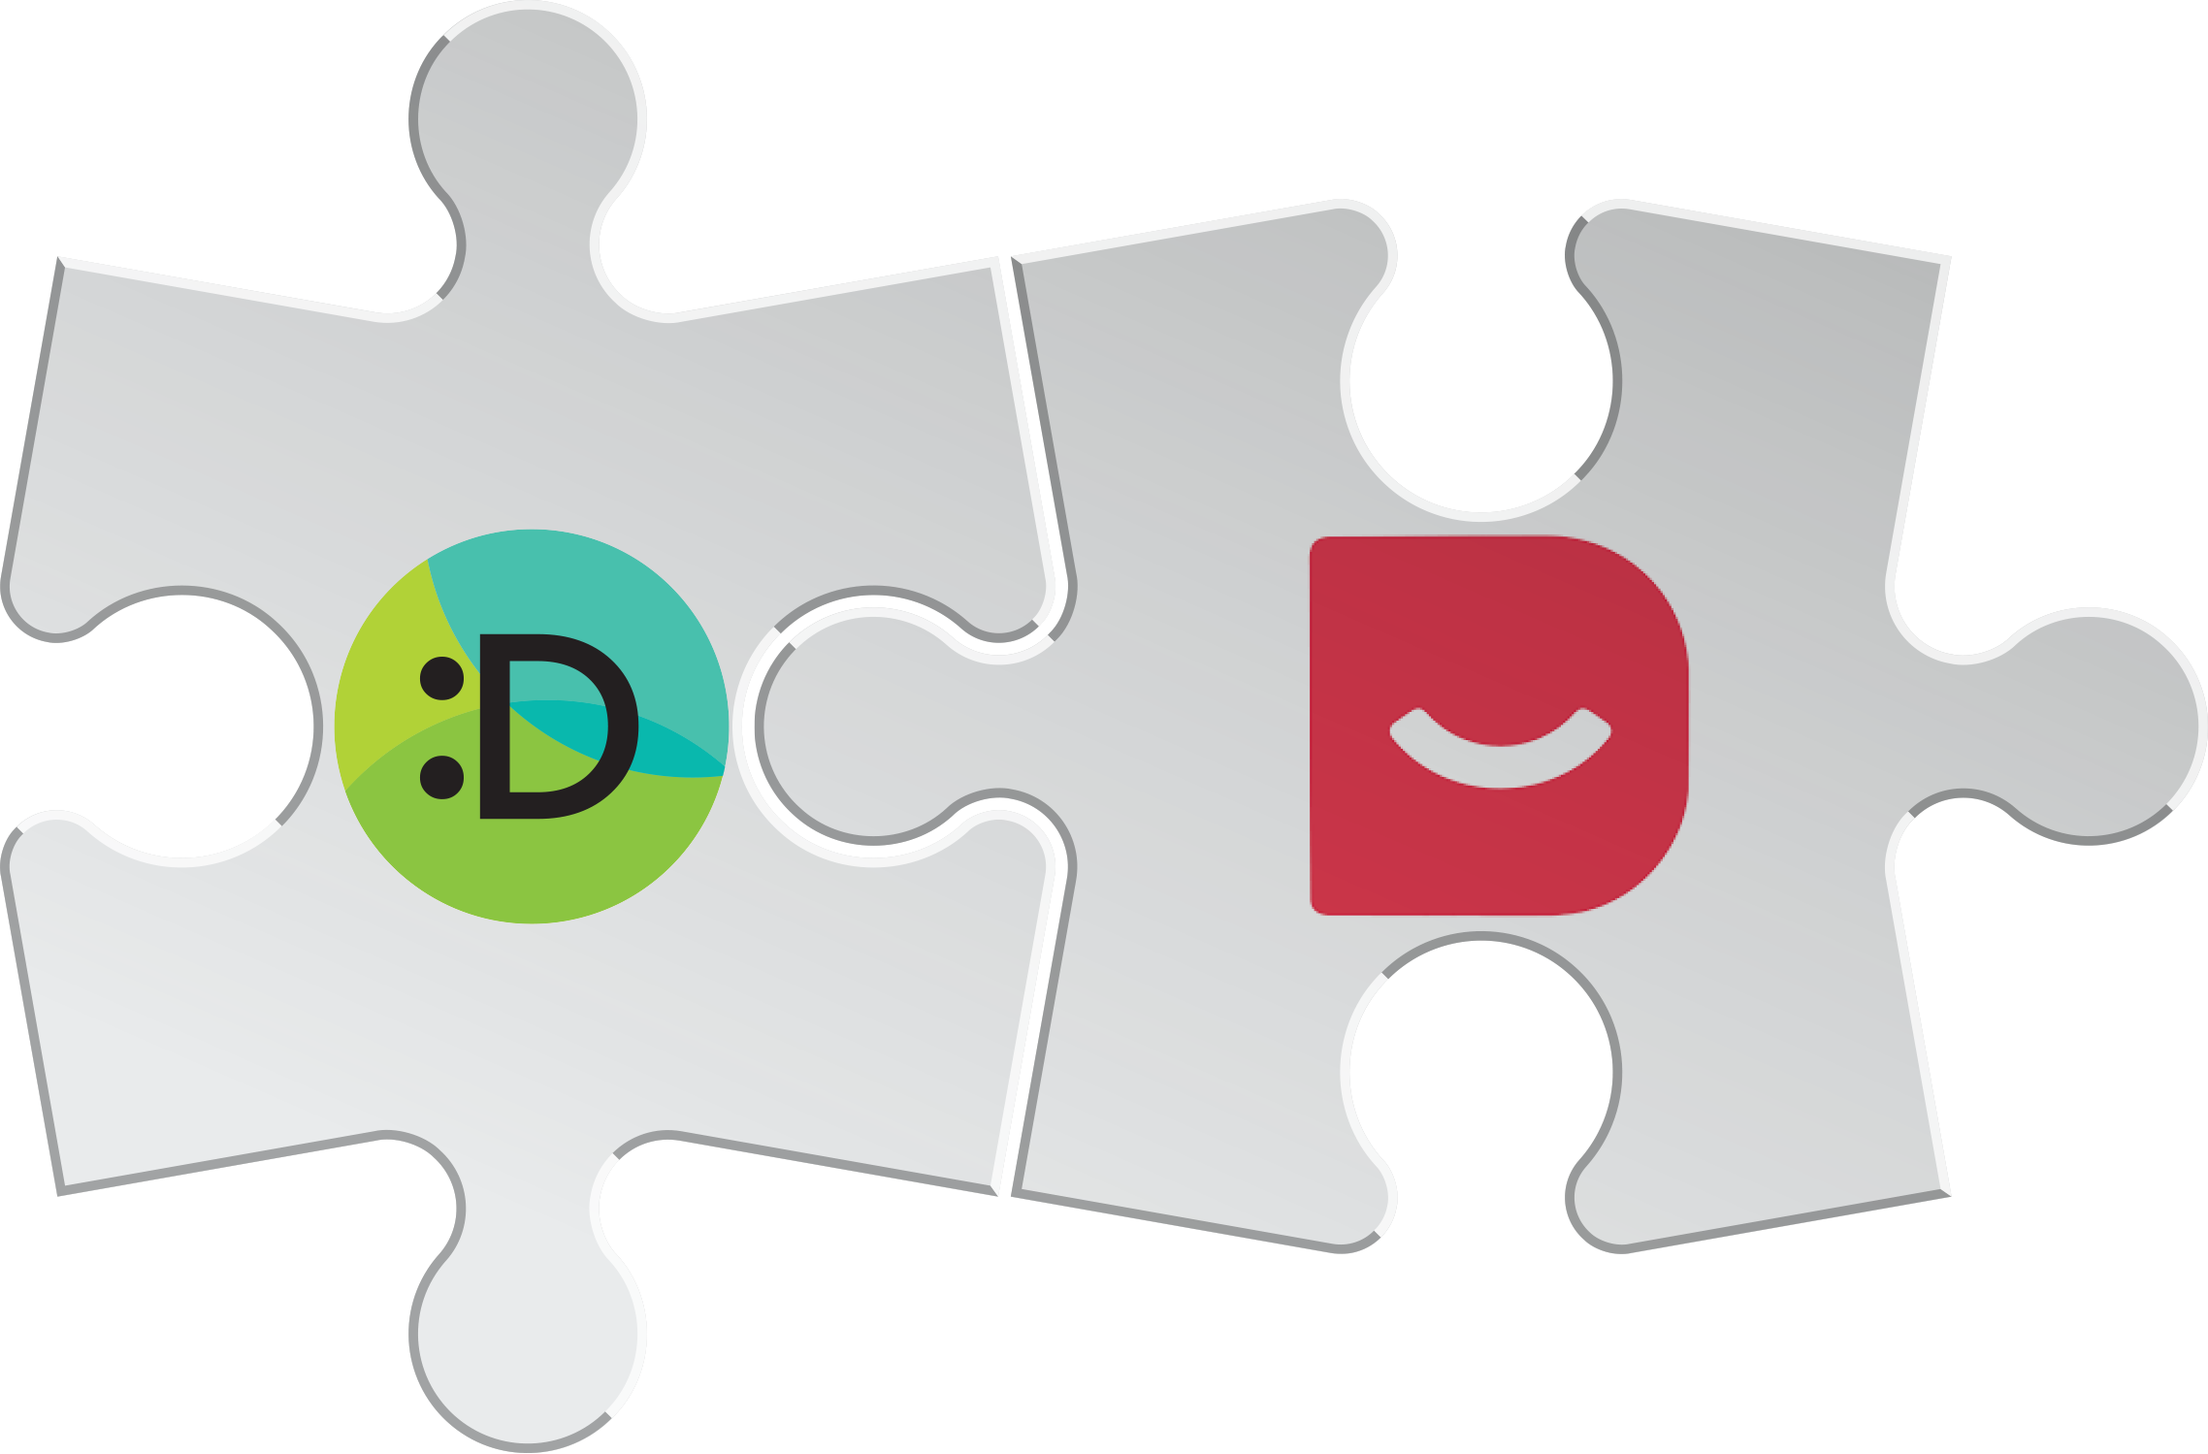
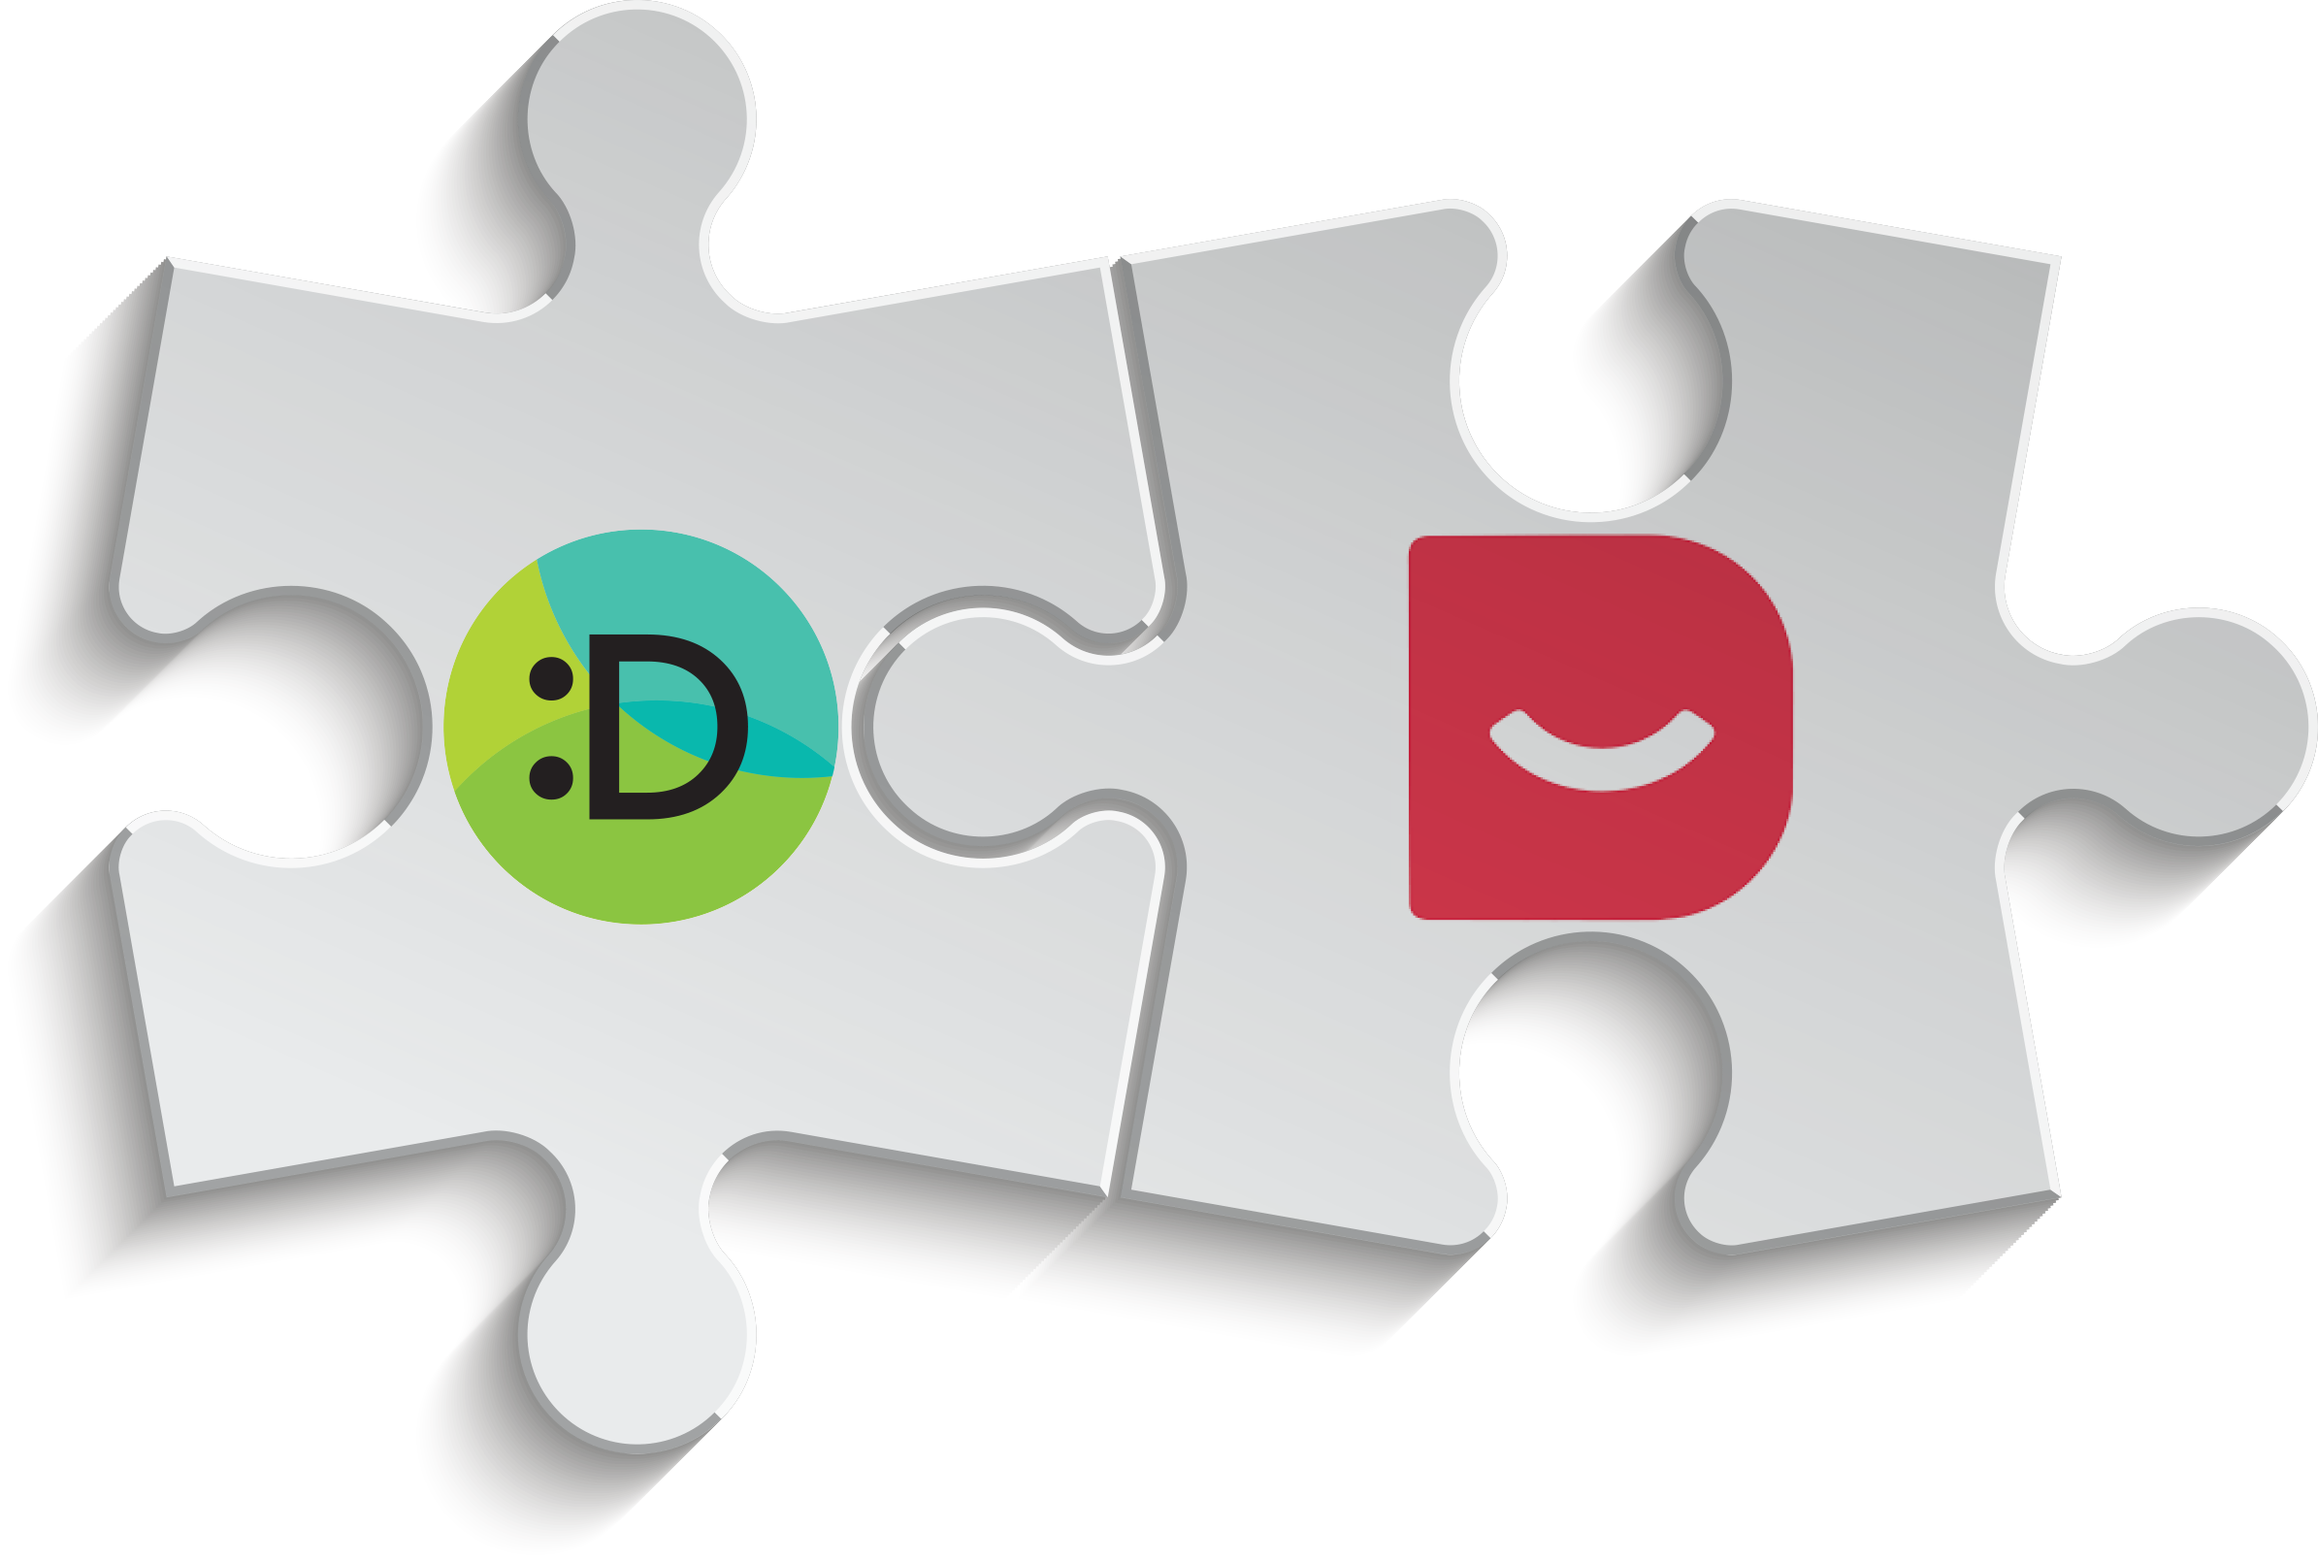
first commit

diff --git a/index.html b/index.html
@@ -33,8 +33,8 @@
 
     <nav class="navbar navbar-light bg-light navigation-wrap">
       <div class="container">
-        <a class="navbar-brand" href="#">
-          <img src="./image/logo.png" alt="" width="120" height="60">
+        <a class="navbar-brand" href="https://shadzi.club/" target="blank">
+          <img src="./image/logo.png" alt="" width="110" height="60">
         </a>
       </div>
     </nav>
@@ -50,7 +50,7 @@
           <div class="col-md-6">
             <!-- App Image -->
             <div class="image-block">
-              <img class="img-fluid phone-thumb puzzle" src="image/shadzi,DK.png" alt="iphone-banner">
+              <img class="img-fluid phone-thumb puzzle" src="image/shadzi,DK.png" alt="iphone-banner" />
             </div>
           </div>
           <div class="col-md-6 align-self-center">

diff --git a/js/main.js b/js/main.js
@@ -3,7 +3,7 @@ $(".carousel_se_01_carousel").owlCarousel({
     autoplayhoverpause: true,
     autoplaytimeout: 100,
     items: 3,
-    nav: true,
+    // nav: true,
     loop: true,
     lazyLoad: true,
     margin: 5,

diff --git a/css/style.css b/css/style.css
@@ -16,7 +16,7 @@ body {
   margin-left: 50px;
 }
 .puzzle {
-  width: 400px;
+  width: 500px;
 }
 .text {
   color: #000;
